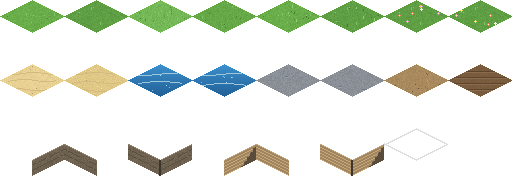
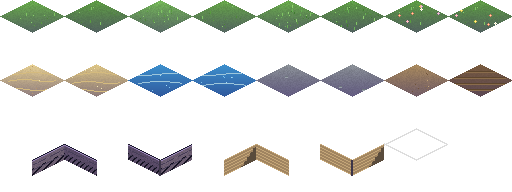
art: violet-shade terrain + ink ghost edges + lilac rain
Terrain pass on the COO/poster direction already landed in the tree:
- gen_assets: fill_dia gains a violet shadow term — tile bottoms cool
  toward lilac instead of gray; cliff walls become two-tone violet
  (sx lit / sy shaded) with an ink contour at the tile seam, lilac rim,
  and a halftone dot lattice on the shaded half; water deep end leans
  violet-blue; tiles.png regenerated + imported
- hud: build ghost diamonds get an ink outline over the signal fill;
  rain streaks shift from neon blue to ink-lilac
- earlier in this pass: orb chip rows + build ghost read as paper,
  drop/sphere sprites get ink frames + paper glints (landed in 56b1e82)

Verification: smoke 676 checks / 0 failures; windowed shots of
title/play/kinbox/pause re-inspected.

Generated with [Devin](https://devin.ai)

diff --git a/tools/gen_assets.py b/tools/gen_assets.py
@@ -437,8 +437,12 @@ def dia_clip(img):
     ImageDraw.Draw(mask).polygon(DIA, fill=255)
     return mask
 
-def fill_dia(img, base, vary, seed, dark_bottom=0.0):
-    """Fill diamond with base color + per-pixel hash speckle."""
+VIOLET = (91, 74, 138)
+
+def fill_dia(img, base, vary, seed, dark_bottom=0.0, violet=0.0):
+    """Fill diamond with base color + per-pixel hash speckle.
+    dark_bottom shades toward the bottom vertex; violet>0 sends that shade
+    toward lilac instead of gray — the poster's shadow hue."""
     px = img.load()
     b = hxc(base)
     for y in range(33):
@@ -451,7 +455,13 @@ def fill_dia(img, base, vary, seed, dark_bottom=0.0):
                 f = 1 + (h - 0.5) * vary
                 # darken slightly toward bottom vertex (fake depth)
                 dd = 1 - dark_bottom * (y / 32.0)
-                px[x, y] = (int(b[0] * f * dd), int(b[1] * f * dd), int(b[2] * f * dd), 255)
+                r, g, bl = b[0] * f * dd, b[1] * f * dd, b[2] * f * dd
+                if violet > 0:
+                    vm = violet * (y / 32.0)
+                    r = r * (1 - vm) + VIOLET[0] * vm
+                    g = g * (1 - vm) + VIOLET[1] * vm
+                    bl = bl * (1 - vm) + VIOLET[2] * vm
+                px[x, y] = (min(255, int(r)), min(255, int(g)), min(255, int(bl)), 255)
 
 def in_dia(x, y):
     dx = abs(x - 32) / 32.0
@@ -482,7 +492,7 @@ def blades(img, n, seed, cols):
 def make_grass(v):
     img = tile_img()
     bases = ["#69ad4a", "#5f9f44", "#74b857", "#66a848"]
-    fill_dia(img, bases[v % 4], 0.12, 100 + v)
+    fill_dia(img, bases[v % 4], 0.12, 100 + v, dark_bottom=0.22, violet=0.5)
     blades(img, 14 + v * 3, 200 + v, ["#4e8a38", "#7fc463", "#589a3f"])
     speckle(img, ["#8ad06b", "#4a8034"], 8 + v * 2, 300 + v)
     return img
@@ -509,7 +519,7 @@ def make_flower(v):
 
 def make_sand(v):
     img = tile_img()
-    fill_dia(img, ["#e8d193", "#e0c887"][v % 2], 0.07, 500 + v)
+    fill_dia(img, ["#e8d193", "#e0c887"][v % 2], 0.07, 500 + v, dark_bottom=0.18, violet=0.45)
     speckle(img, ["#c9a86a", "#f4e6b4", "#b8946a"], 16, 600 + v)
     px = img.load()
     for i in range(3):  # ripples
@@ -528,7 +538,7 @@ def make_water(v):
             if in_dia(x, y):
                 t = y / 32.0
                 base = (61, 144, 205)
-                deep = (33, 96, 150)
+                deep = (48, 90, 158)  # deep end leans violet-blue, not gray
                 c = tuple(int(base[i] * (1 - t) + deep[i] * t) for i in range(3))
                 px[x, y] = c + (255,)
     speckle(img, ["#7fc4ee", "#a8dcf6"], 8, 700 + v)
@@ -542,7 +552,7 @@ def make_water(v):
 
 def make_stonefield(v):
     img = tile_img()
-    fill_dia(img, "#8a9096", 0.14, 800 + v)
+    fill_dia(img, "#8a9096", 0.14, 800 + v, dark_bottom=0.2, violet=0.55)
     px = img.load()
     for i in range(5):  # slabs
         x = int(hash2(i, v, 81) * 52) + 6
@@ -558,13 +568,13 @@ def make_stonefield(v):
 
 def make_dirt(v):
     img = tile_img()
-    fill_dia(img, "#a98a5e", 0.12, 900 + v)
+    fill_dia(img, "#a98a5e", 0.12, 900 + v, dark_bottom=0.2, violet=0.45)
     speckle(img, ["#8a6d4d", "#c4a678", "#6e5238"], 14, 950 + v)
     return img
 
 def make_farmland(v):
     img = tile_img()
-    fill_dia(img, "#7a5c3e", 0.08, 1000 + v)
+    fill_dia(img, "#7a5c3e", 0.08, 1000 + v, dark_bottom=0.22, violet=0.4)
     px = img.load()
     for i in range(4):  # tilled rows along x axis
         y0 = 7 + i * 6
@@ -607,18 +617,24 @@ def wall_img(kind):
                             cc = hxc("#5a4c3c")
                     else:
                         v = 1 + (h - 0.5) * 0.18
-                        base = hxc("#6e6250")
+                        # cliff = the poster's violet shadow face; +x wall catches
+                        # a little more light than +y so the pair reads lit/shaded
+                        base = hxc("#6b5d70") if f == "sx" else hxc("#584a66")
                         cc = tuple(min(255, int(c * v)) for c in base)
                         if t == 0:
-                            cc = hxc("#94866c")  # top rim light
+                            cc = INK  # ink contour where the wall meets the tile top
+                        elif t == 1:
+                            cc = hxc("#9a86b8")  # lilac rim light under the ink line
                         elif t in (5, 10) and h < 0.8:
-                            cc = hxc("#57503f")  # strata lines
+                            cc = hxc("#463e58")  # strata lines — violet ink, not gray
+                        elif t > WALL * 0.55 and ((xi + int(y)) % 6) < 2:
+                            cc = tuple(min(255, int(c * 0.72)) for c in INK)  # halftone dot lattice on the shaded half
                     px[xi, int(y)] = cc + (255,)
     if kind == "corner" or kind == "stair_corner":
         for t in range(WALL):
             for dy in range(2):
                 if 0 <= 32 + dy < 64 and 0 <= 30 + t < 64:
-                    px[31 + dy, 32 + t] = hxc("#3c352b") + (255,)
+                    px[31 + dy, 32 + t] = hxc("#3c3548") + (255,)
     return img
 
 def marker_img():
